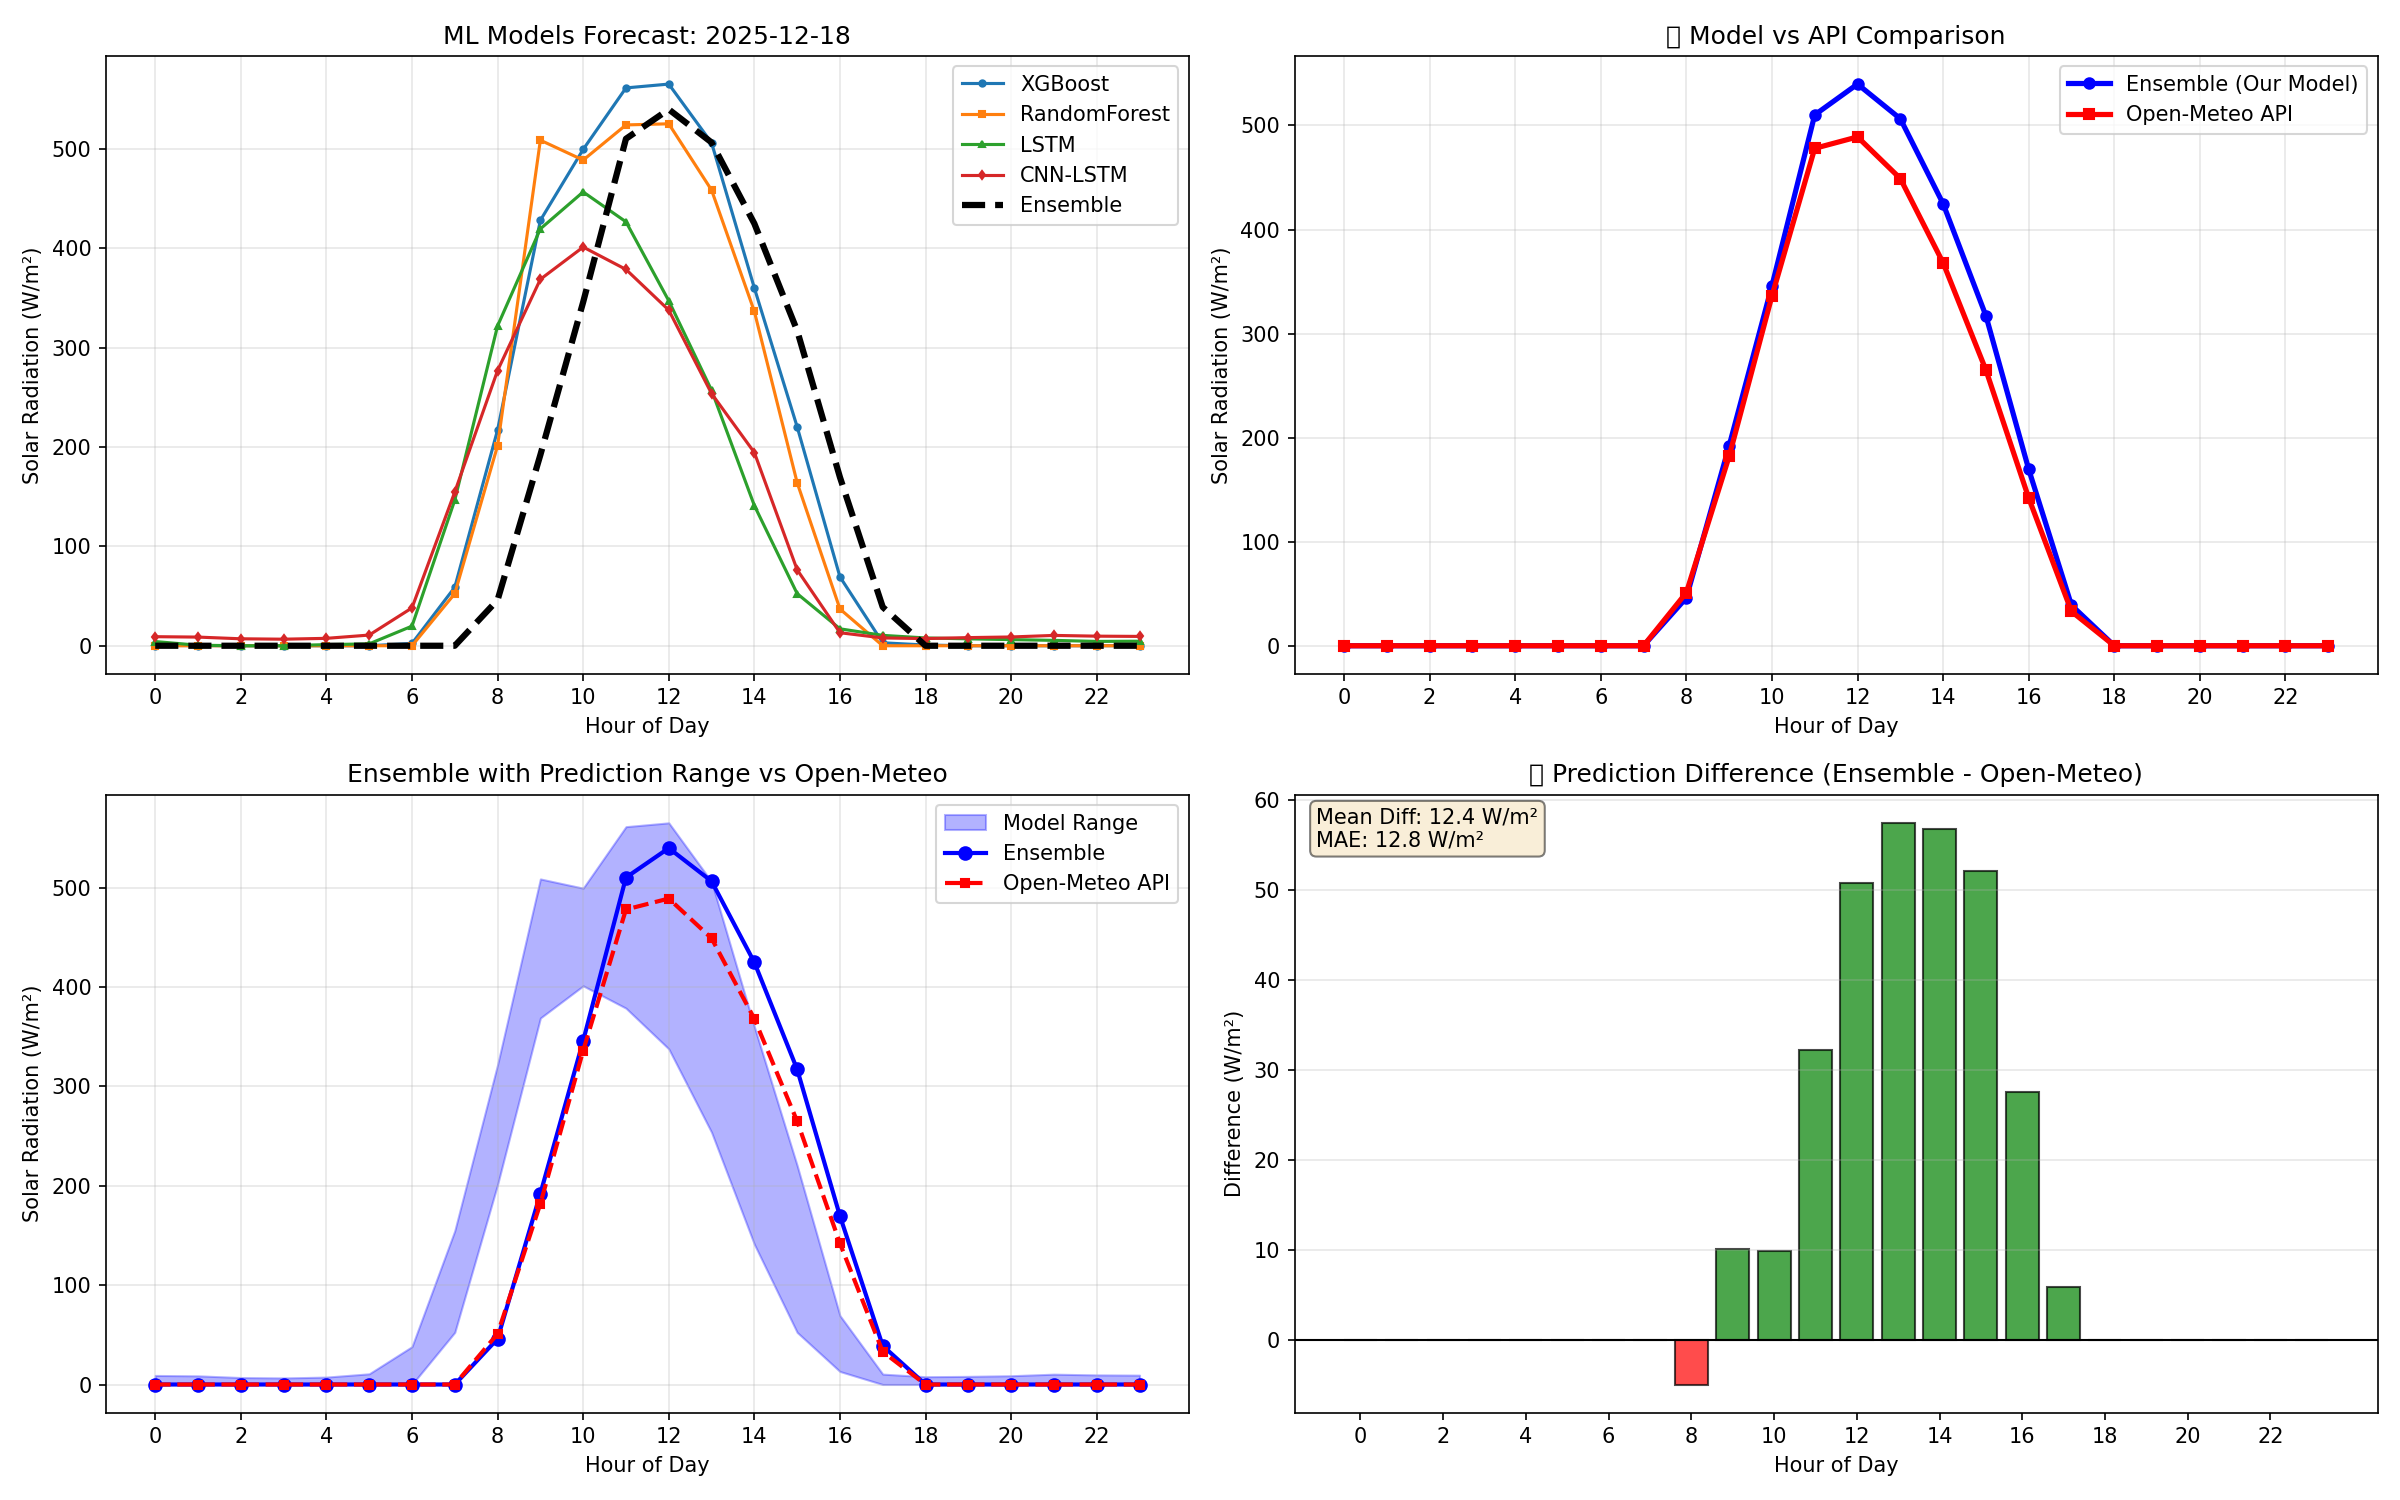
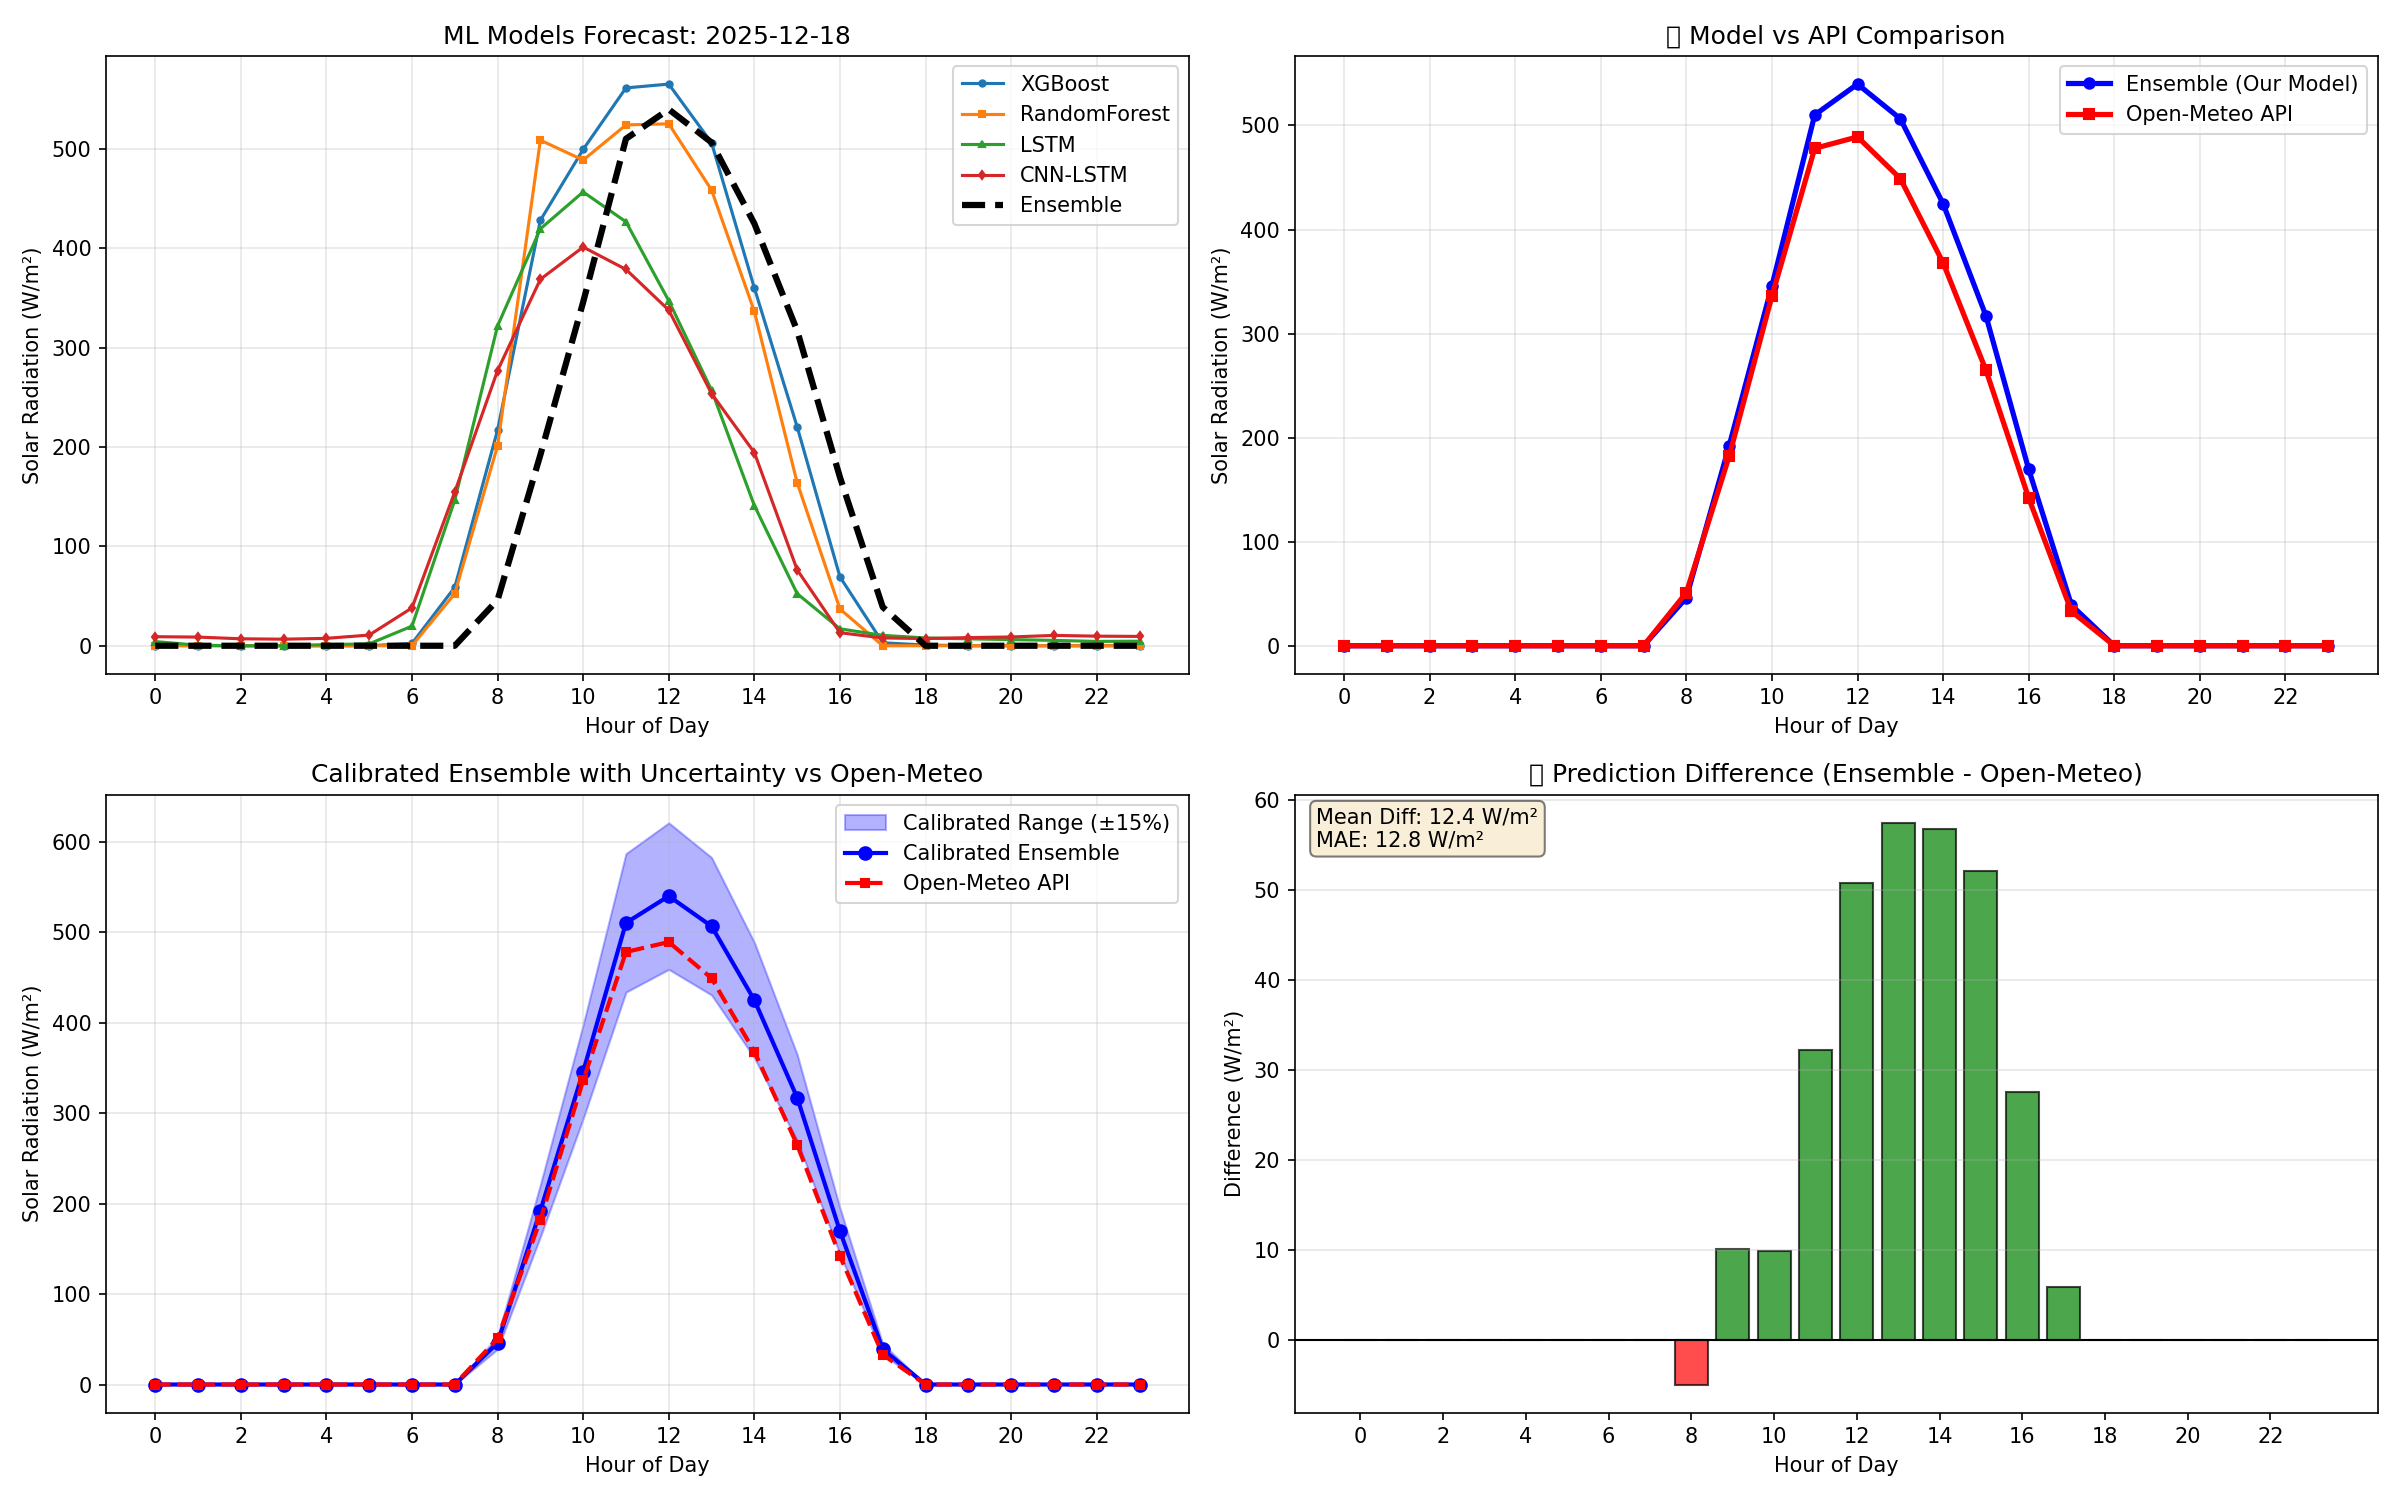
More calibrated ensemle model

Changed region(s): [[0.1562, 0.552, 0.4688, 0.92], [0.125, 0.4907, 0.4688, 0.6133]]

diff --git a/trend.py b/trend.py
@@ -318,9 +318,9 @@ day = today.day
 # Override with specific date if needed (must be within forecast range for API)
 # For NASA POWER: Use historical dates (~1 week old or older)
 # For Open-Meteo: Use today or future dates (up to 16 days)
-# year = 2025
-# month = 12
-# day = 19
+year = 2025
+month = 12
+day = 19
 
 print(f"📅 Forecasting for: {year}-{month:02d}-{day:02d}")
 
@@ -725,10 +725,20 @@ pred_min = pred_center * 0.85  # Lower bound (-15%)
 pred_max = pred_center * 1.15  # Upper bound (+15%)
 
 ax3.fill_between(
-    range(24), pred_min, pred_max, alpha=0.3, color="blue", label="Calibrated Range (±15%)"
+    range(24),
+    pred_min,
+    pred_max,
+    alpha=0.3,
+    color="blue",
+    label="Calibrated Range (±15%)",
 )
 ax3.plot(
-    range(24), ensemble_preds, label="Calibrated Ensemble", linewidth=2, color="blue", marker="o"
+    range(24),
+    ensemble_preds,
+    label="Calibrated Ensemble",
+    linewidth=2,
+    color="blue",
+    marker="o",
 )
 if not all(np.isnan(api_preds)):
     ax3.plot(
